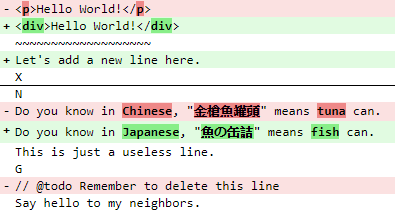
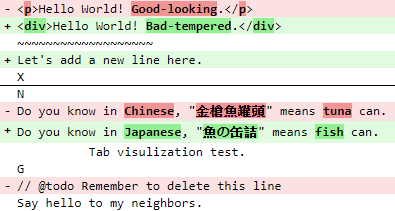
Update screenshots

diff --git a/README.md b/README.md
@@ -188,12 +188,12 @@ $result = $htmlRenderer->renderArray(json_decode($jsonResult, true));
 ### Renderer: Combined
 
 ```php
-<?php $rendererOptions = ['detailLevel' => 'char'];
+<?php $rendererOptions = ['detailLevel' => 'word'];
 ```
 
 This renderer is suitable for articles and always has no line number information.
 
-![Combined](https://raw.githubusercontent.com/jfcherng/php-diff/v6/example/images/combined-renderer-char-level.png)
+![Combined](https://raw.githubusercontent.com/jfcherng/php-diff/v6/example/images/combined-renderer-word-level.png)
 
 
 ### Renderer: Unified
